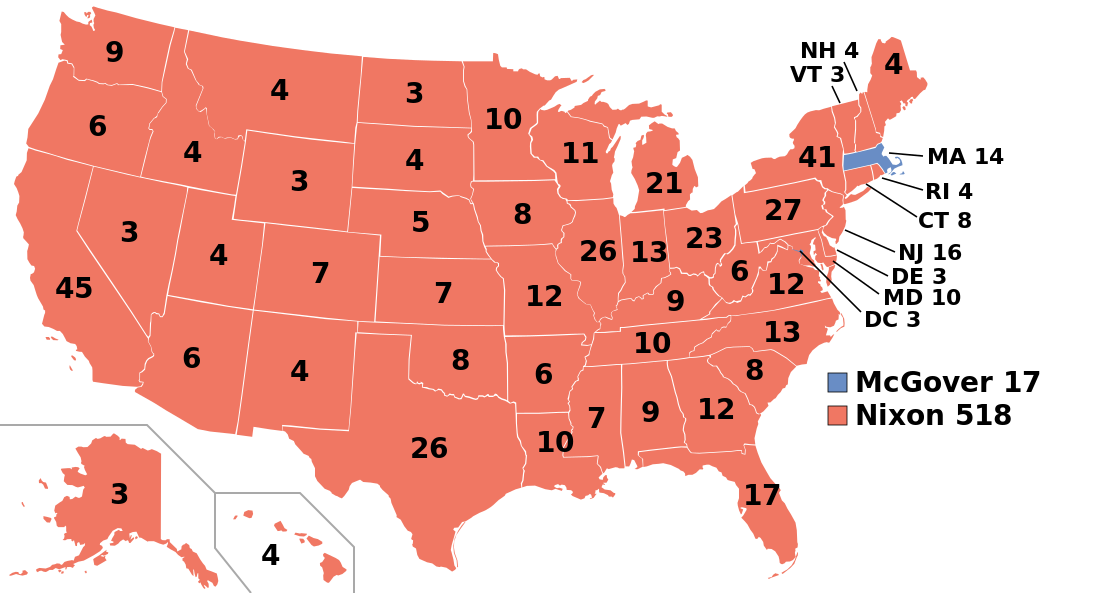
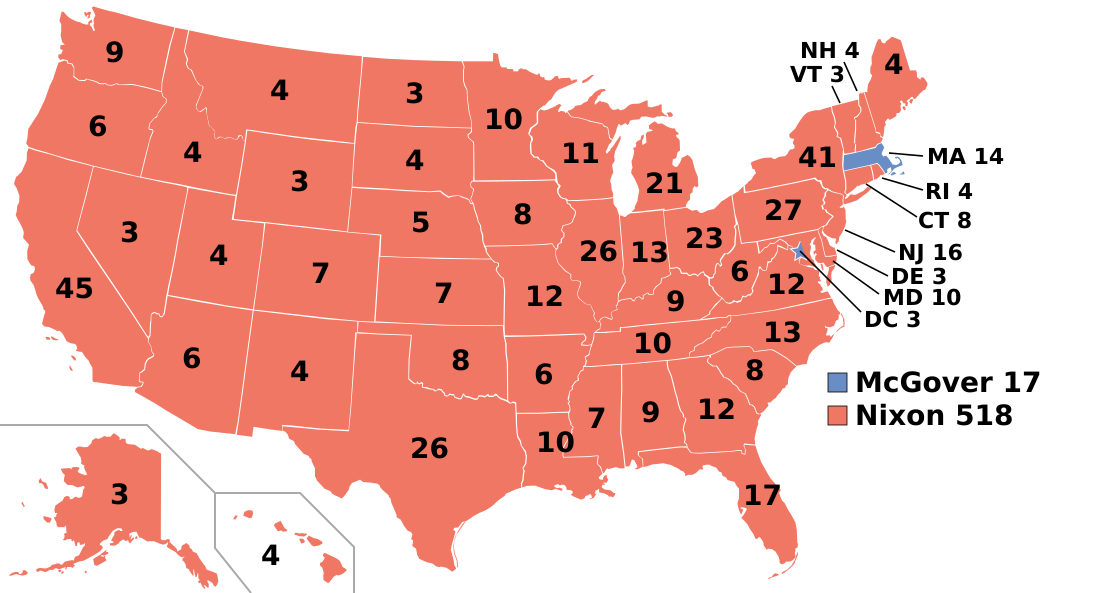
Small bug fix

diff --git a/ElectoralCollegeMakerLibrary.py b/ElectoralCollegeMakerLibrary.py
@@ -177,6 +177,9 @@ def GenerateElectoralMap(candidate_names, candidate_short_names, candidate_color
  state_initials_split = [x.strip() for x in state_initials.split(',')];
  statemapoutput = "  <g id=\"outlines\">\n";
  statetextoutput = "  <g id=\"text\" font-family=\"Helvetica Neue\" font-size=\"28\" font-weight=\"bold\">\n";
+ statemapoutput_dclast = "";
+ statetextoutput_dclast = "";
+
  il = 0;
  ilx = len(winning_candidate_states_split);
  while(il < ilx):
@@ -209,8 +212,8 @@ def GenerateElectoralMap(candidate_names, candidate_short_names, candidate_color
    statetextoutput = statetextoutput + "   <text id=\"CTn\" x=\"918\" y=\"228\" font-size=\"22\">CT "+str(electoral_college_points_split[il])+"</text>\n";
    candidate_electoral_points_split[winning_candidate_states_split[il]] = candidate_electoral_points_split[winning_candidate_states_split[il]] + electoral_college_points_split[il];
   if(state_initials_split[il]=="DC"):
-   statemapoutput = statemapoutput + "   <path id=\"DC\" fill=\""+candidate_colors_split[winning_candidate_states_split[il]]+"\" stroke=\"#FFFFFF\" d=\"M 807,260l-6.26,-3.18l-5.97,3.60l1.09,-6.93l-5.27,-4.56l6.93,-1.11l2.71,-6.42l3.19,6.25l6.94,0.59l-4.96,4.97 L 807,260 z\"/>\n"
-   statetextoutput = statetextoutput + "   <text id=\"DCn\" x=\"864\" y=\"327\" font-size=\"22\">DC "+str(electoral_college_points_split[il])+"</text>\n";
+   statemapoutput_dclast = "   <path id=\"DC\" fill=\""+candidate_colors_split[winning_candidate_states_split[il]]+"\" stroke=\"#FFFFFF\" d=\"M 807,260l-6.26,-3.18l-5.97,3.60l1.09,-6.93l-5.27,-4.56l6.93,-1.11l2.71,-6.42l3.19,6.25dclast0.59l-4.96,4.97 L 807,260 z\"/>\n"
+   statetextoutput_dclast = "   <text id=\"DCn\" x=\"864\" y=\"327\" font-size=\"22\">DC "+str(electoral_college_points_split[il])+"</text>\n";
    candidate_electoral_points_split[winning_candidate_states_split[il]] = candidate_electoral_points_split[winning_candidate_states_split[il]] + electoral_college_points_split[il];
   if(state_initials_split[il]=="DE"):
    statemapoutput = statemapoutput + "   <path id=\"DE\" fill=\""+candidate_colors_split[winning_candidate_states_split[il]]+"\" d=\"M822.4,230.4l0.6-2.1l0-1.2l-1.3-0.1l-2.1,1.6l-1.5,1.5l1.5,4.2l2.3,5.7l2.1,9.7l1.6,6.3l5-0.2 l6.1-1.2l-2.3-7.4l-1,0.5l-3.6-2.4l-1.8-4.7l-1.9-3.6l-2.3-1l-2.1-3.6L822.4,230.4z\"/>\n"
@@ -422,7 +425,8 @@ def GenerateElectoralMap(candidate_names, candidate_short_names, candidate_color
    statetextoutput = statetextoutput + "   <text id=\"WYn\" x=\"290\" y=\"191\">"+str(electoral_college_points_split[il])+"</text>\n";
    candidate_electoral_points_split[winning_candidate_states_split[il]] = candidate_electoral_points_split[winning_candidate_states_split[il]] + electoral_college_points_split[il];
   il = il + 1;
- statemapoutput = statemapoutput + "  </g>\n";
+ statemapoutput = statemapoutput + statemapoutput_dclast + "  </g>\n";
+ statetextoutput = statetextoutput + statetextoutput_dclast;
  if(len(candidate_short_names_split)==2):
   svg_file_width = 1020;
   long_candidate_short_name = candidate_short_names_split[0]+" "+str(candidate_electoral_points_split[0]);
